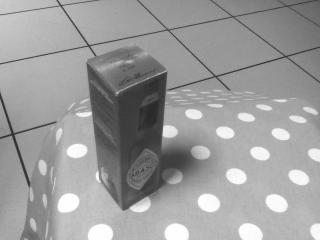
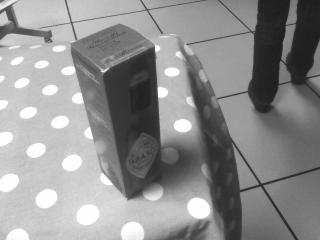
update demo grasping

diff --git a/demos/grasping/grasp_box_bh_blob.cpp b/demos/grasping/grasp_box_bh_blob.cpp
@@ -137,10 +137,10 @@ void moveLArmFromRestPosition (const vpNaoqiRobot &robot, const std::vector<floa
 
         if (chain_name == "RArm")
         {
-            // pos1 = AL::ALValue::array(0.38404589891433716, -0.23612679541110992, -0.09724850952625275, 1.4714961051940918, 0.5567980408668518, 0.2787119448184967);
-            //       pos2 = AL::ALValue::array(0.3702833652496338, -0.34589311480522156, 0.23645465075969696, 1.3869593143463135, -0.2769468426704407, -0.16718725860118866);
-            pos1 = AL::ALValue::array(0.3692784905433655, -0.35209423303604126, -0.07788902521133423, 1.2388615608215332, 0.6193198561668396, -0.17408452928066254);
-            pos2 = AL::ALValue::array(0.39801979064941406, -0.20118434727191925, 0.17352993786334991, 1.471331238746643, -0.24805442988872528, 0.6248168349266052);
+            pos1 = AL::ALValue::array(0.38404589891433716, -0.23612679541110992, -0.09724850952625275, 1.4714961051940918, 0.5567980408668518, 0.2787119448184967);
+            pos2 = AL::ALValue::array(0.3702833652496338, -0.34589311480522156, 0.23645465075969696, 1.3869593143463135, -0.2769468426704407, -0.16718725860118866);
+            //pos1 = AL::ALValue::array(0.3692784905433655, -0.35209423303604126, -0.07788902521133423, 1.2388615608215332, 0.6193198561668396, -0.17408452928066254);
+           // pos2 = AL::ALValue::array(0.39801979064941406, -0.20118434727191925, 0.17352993786334991, 1.471331238746643, -0.24805442988872528, 0.6248168349266052);
 
 
         }
@@ -485,7 +485,7 @@ int main(int argc, const char* argv[])
     if (opt_right_arm)
     {
         chain_name = "RArm";
-        // opt_Reye = true;
+        opt_Reye = true;
     }
     else
     {
@@ -614,6 +614,9 @@ int main(int argc, const char* argv[])
     hand_tracker.setCameraParameters(cam);
     hand_tracker.setPoints(points);
 
+    if (opt_right_arm)
+        hand_tracker.setLeftHandTarget(false);
+
     if(!hand_tracker.loadHSV(opt_name_file_color_target))
     {
         std::cout << "Error opening the file "<< opt_name_file_color_target << std::endl;
@@ -650,7 +653,6 @@ int main(int argc, const char* argv[])
 
 
     // Initialize Detection color class
-
     vpColorDetection obj_color;
     obj_color.setName(opt_box_name);
     std::string filename_color = box_folder + "color/" + opt_box_name + "HSV.txt";
@@ -1035,7 +1037,7 @@ int main(int argc, const char* argv[])
                 AL::ALValue angles_head;
                 if (opt_right_arm)
                     //angles_head      = AL::ALValue::array(vpMath::rad(-8.3), vpMath::rad(19), vpMath::rad(11.4), vpMath::rad(0), 0.0 , 0.0, 0.0, 0.0  );
-                    angles_head      = AL::ALValue::array(vpMath::rad(-7.5), vpMath::rad(18.9), vpMath::rad(11.0), vpMath::rad(0.0), vpMath::rad(2.4) , vpMath::rad(1.4), 0.0, 0.0  );
+                    angles_head      = AL::ALValue::array(vpMath::rad(3.5), vpMath::rad(21.0), vpMath::rad(13.0), vpMath::rad(0.0), 0.0 , 0.0, 0.0, 0.0  );
                 else
                     angles_head      = AL::ALValue::array(vpMath::rad(4.3), vpMath::rad(24.3), vpMath::rad(8.7), vpMath::rad(0.0), 0.0 , 0.0, 0.0, 0.0  );
                 float fractionMaxSpeed  = 0.1f;
@@ -1138,7 +1140,7 @@ int main(int argc, const char* argv[])
         bool ret = vpDisplay::getKeyboardEvent(I, key, false);
         std::string s = key;
 
-        if (state_teabox_tracker >= MoveToDesiredLHandPosition && state_teabox_tracker < Interaction)
+        if (state_teabox_tracker >= LearnDesiredLHandGraspPosition && state_teabox_tracker < Interaction)
         {
             if (ret && s == "h")
             {
@@ -1456,7 +1458,8 @@ int main(int argc, const char* argv[])
                     //          servo_larm.setCurrentFeature(cdMc) ;
 
 
-                    vpAdaptiveGain lambda(0.8, 0.05, 8);
+                    //vpAdaptiveGain lambda(0.8, 0.05, 8);
+                    vpAdaptiveGain lambda(1.0, 0.09, 8);
                     servo_larm.setLambda(lambda);
 
                     servo_larm.set_eJe(robot.get_eJe(chain_name));
